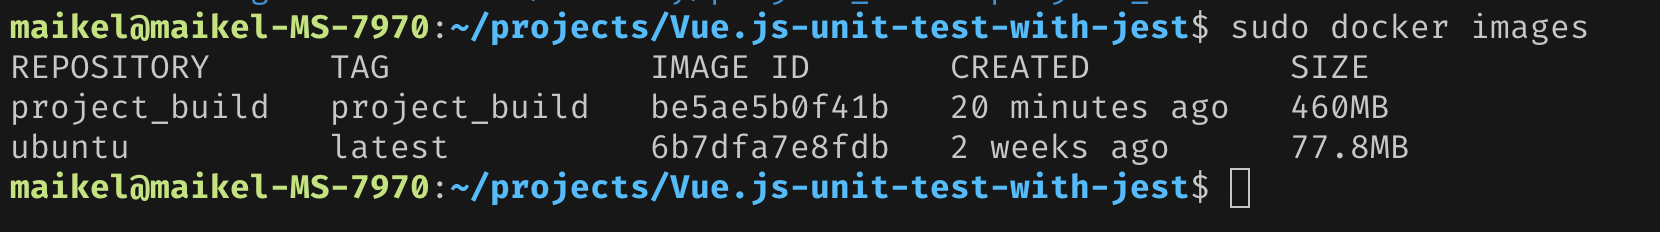
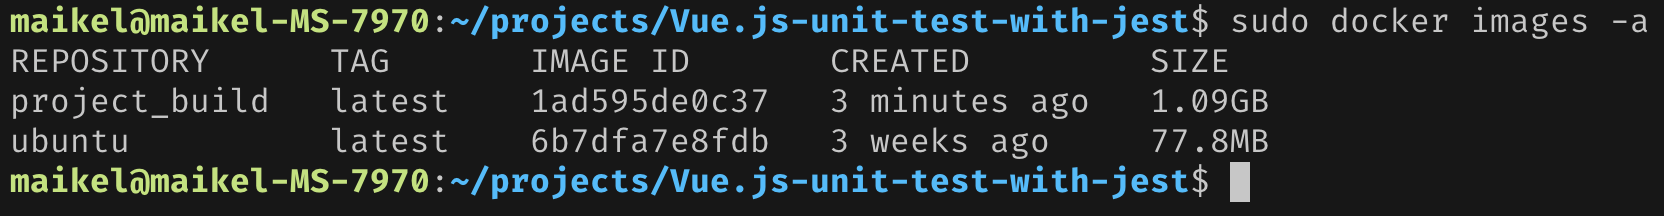
DEVOPS changed images to node after consultation

diff --git a/GCL1/MK403367/LAB2/SPRAWOZDANIE2.md b/GCL1/MK403367/LAB2/SPRAWOZDANIE2.md
@@ -211,52 +211,41 @@ npm run test:unit
 ![image description](./img/kontener-build.png)
 ![image description](./img/kontener-tests.png)
 
-Teraz tworzymy Dockerfile i na jego podstawie zbudujemy obraz
+Teraz tworzymy Dockerfile'e. na podstawie pierwszego zbudujemy obraz, drugi będzie słuzyć do testowania. Dla zachowania porządku pliki dockera zostały umieszczone w katalogu `.docker`
 
 ![image description](./img/dockerfile-ls.png)
 
-Dockerfile prezentuje się następująco
+Tym razem uzyjemy obrazu dedytkowanego dla środowiska z którego korzystamy czyli `node` zamiast `ubuntu`
+
+`Dockerfile.build` prezentuje się następująco
 ```Dockerfile
-FROM ubuntu
-
-# (ze stackoverflow się nie dyskutuje :D)
-SHELL ["/bin/bash", "--login", "-i", "-c"]
-
-RUN apt update
-RUN apt install --yes curl
-RUN apt install --yes git
-WORKDIR home
-RUN curl -o- https://raw.githubusercontent.com/nvm-sh/nvm/v0.39.3/install.sh | bash
-RUN source /root/.bashrc && nvm install 12
-
+FROM node:12
+WORKDIR app
 RUN git clone https://github.com/adityaekawade/Vue.js-unit-test-with-jest.git
-
-
 WORKDIR Vue.js-unit-test-with-jest
 RUN npm install
-CMD ["npm", "run", "build"]
+RUN npm run build
 ```
 
-Uruchamiamy budowanie obrazu, przy okazji warto go otagować. (na sc ponizej wersja bez taga)
+Uruchamiamy budowanie obrazu, przy okazji warto go otagować. (Komenda wywołana z poziomu głównego katalogu projektu).
 ```
-sudo docker build -t project_build .
+sudo docker build -f ./.docker/Dockerfile.build -t project_build .
 ```
 ![image description](./img/build.gif)
 
-Widzimy, ze powstał nowy obraz z naszego `Dockerfile'a`
+Widzimy, ze powstał nowy obraz z naszego Dockerfile'a
 
 ![image description](./img/nowy-image.png)
 
 Kolejnym krokiem będzie stworzenie obrazu do wykonywania testów bazującym na obrazie do budowania.
-
-Edytujemy nasz Dockerfile lub tworzymy nowy. Jego zawartość wygląda następująco:
+Jego zawartość prezentuje się następująco:
 ```Dockerfile
 FROM project_build
-CMD ["npm", "run", "test:unit"]
+RUN npm run test:unit
 ```
 
 Uruchamiamy build obrazu
 ```
-sudo docker build -t project_test .
+sudo docker build -f ./.docker/Dockerfile.test -t project_test .
 ```
 ![image description](./img/docker-test.png)
